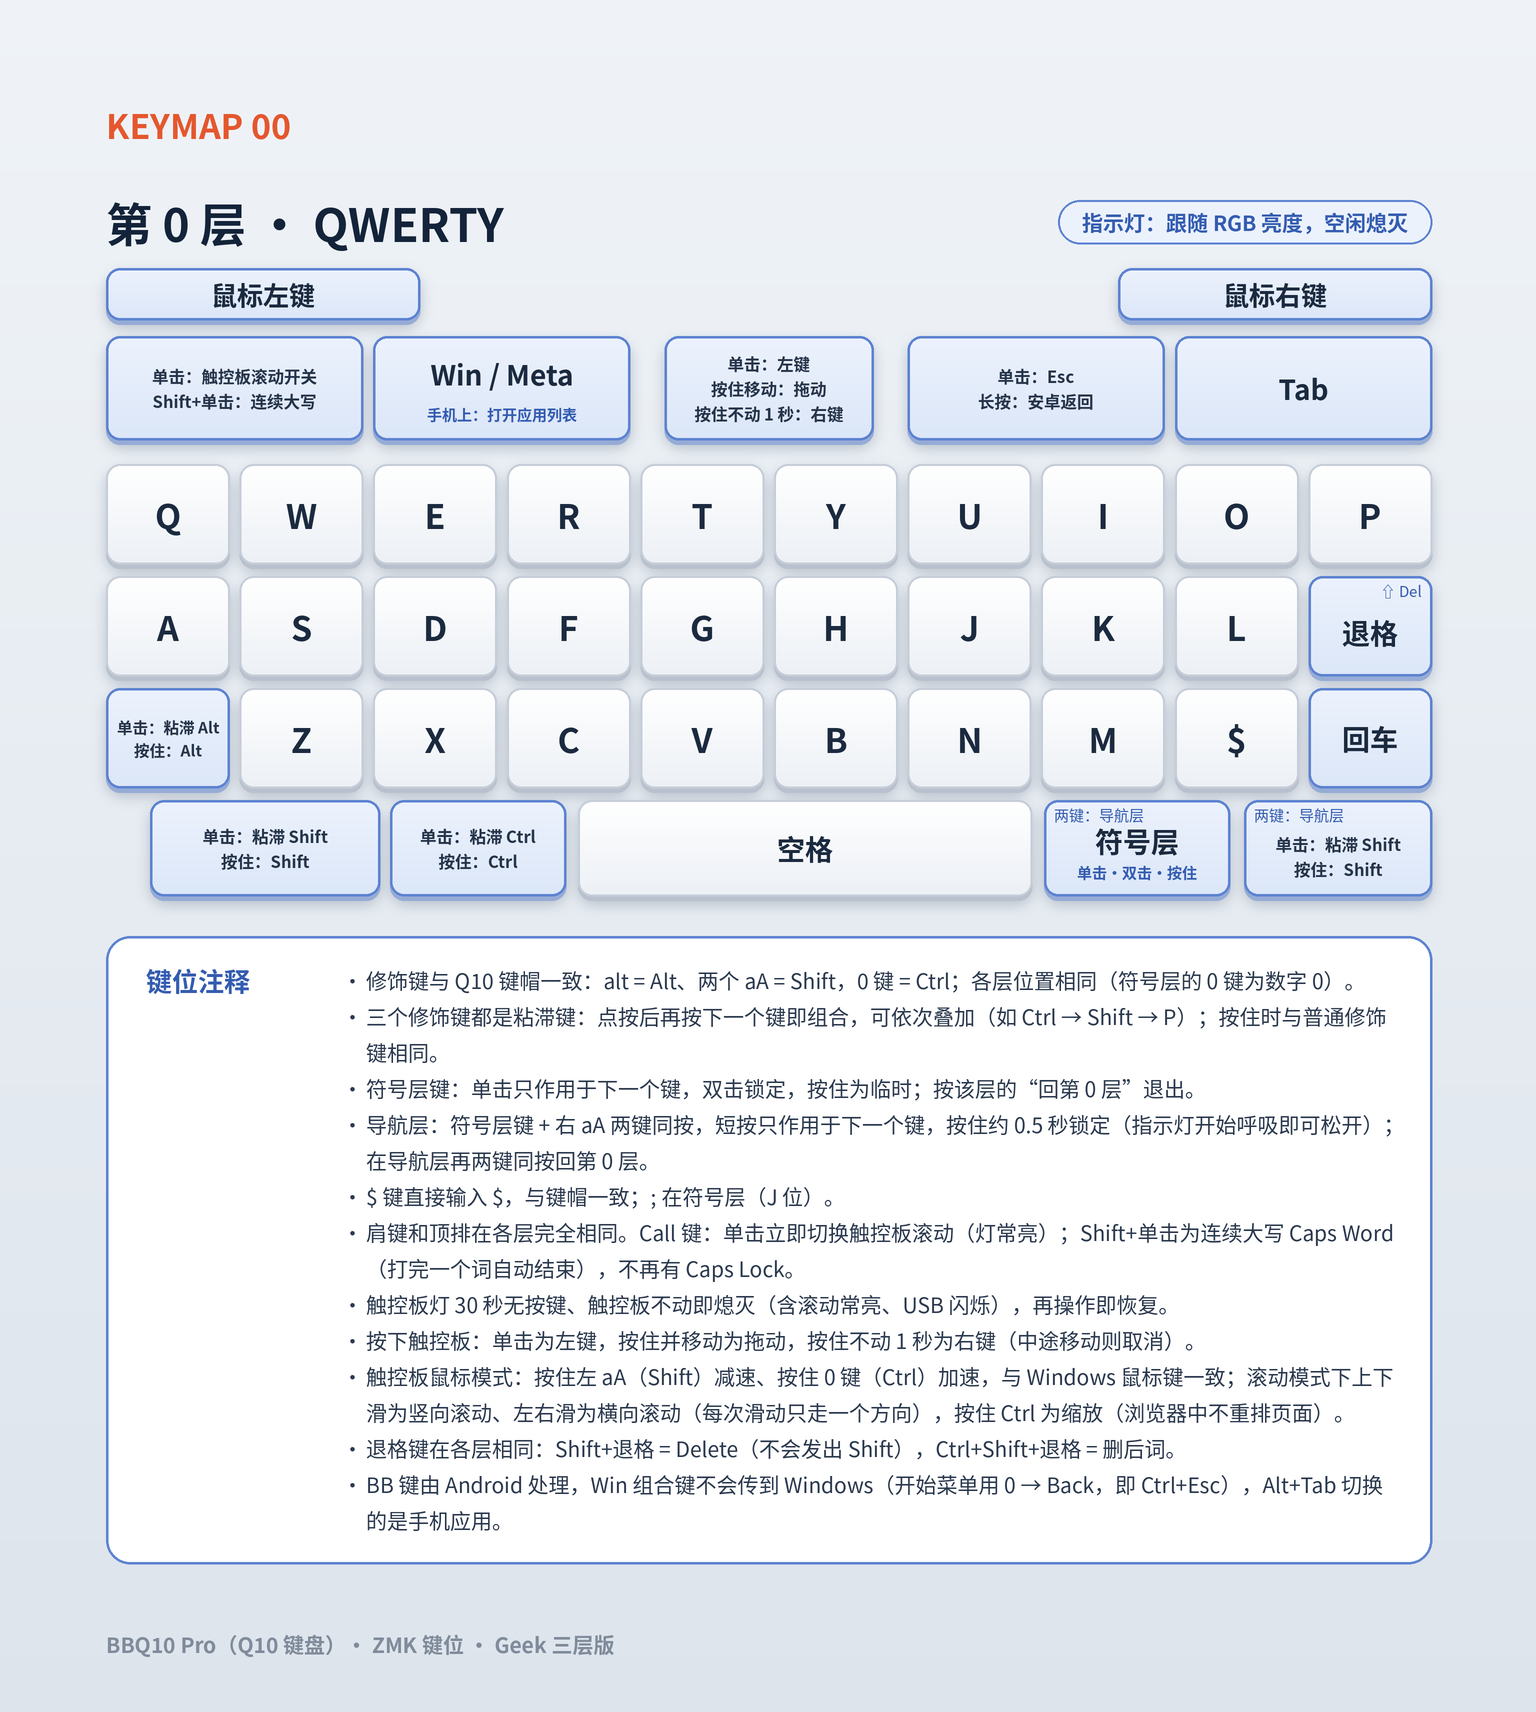
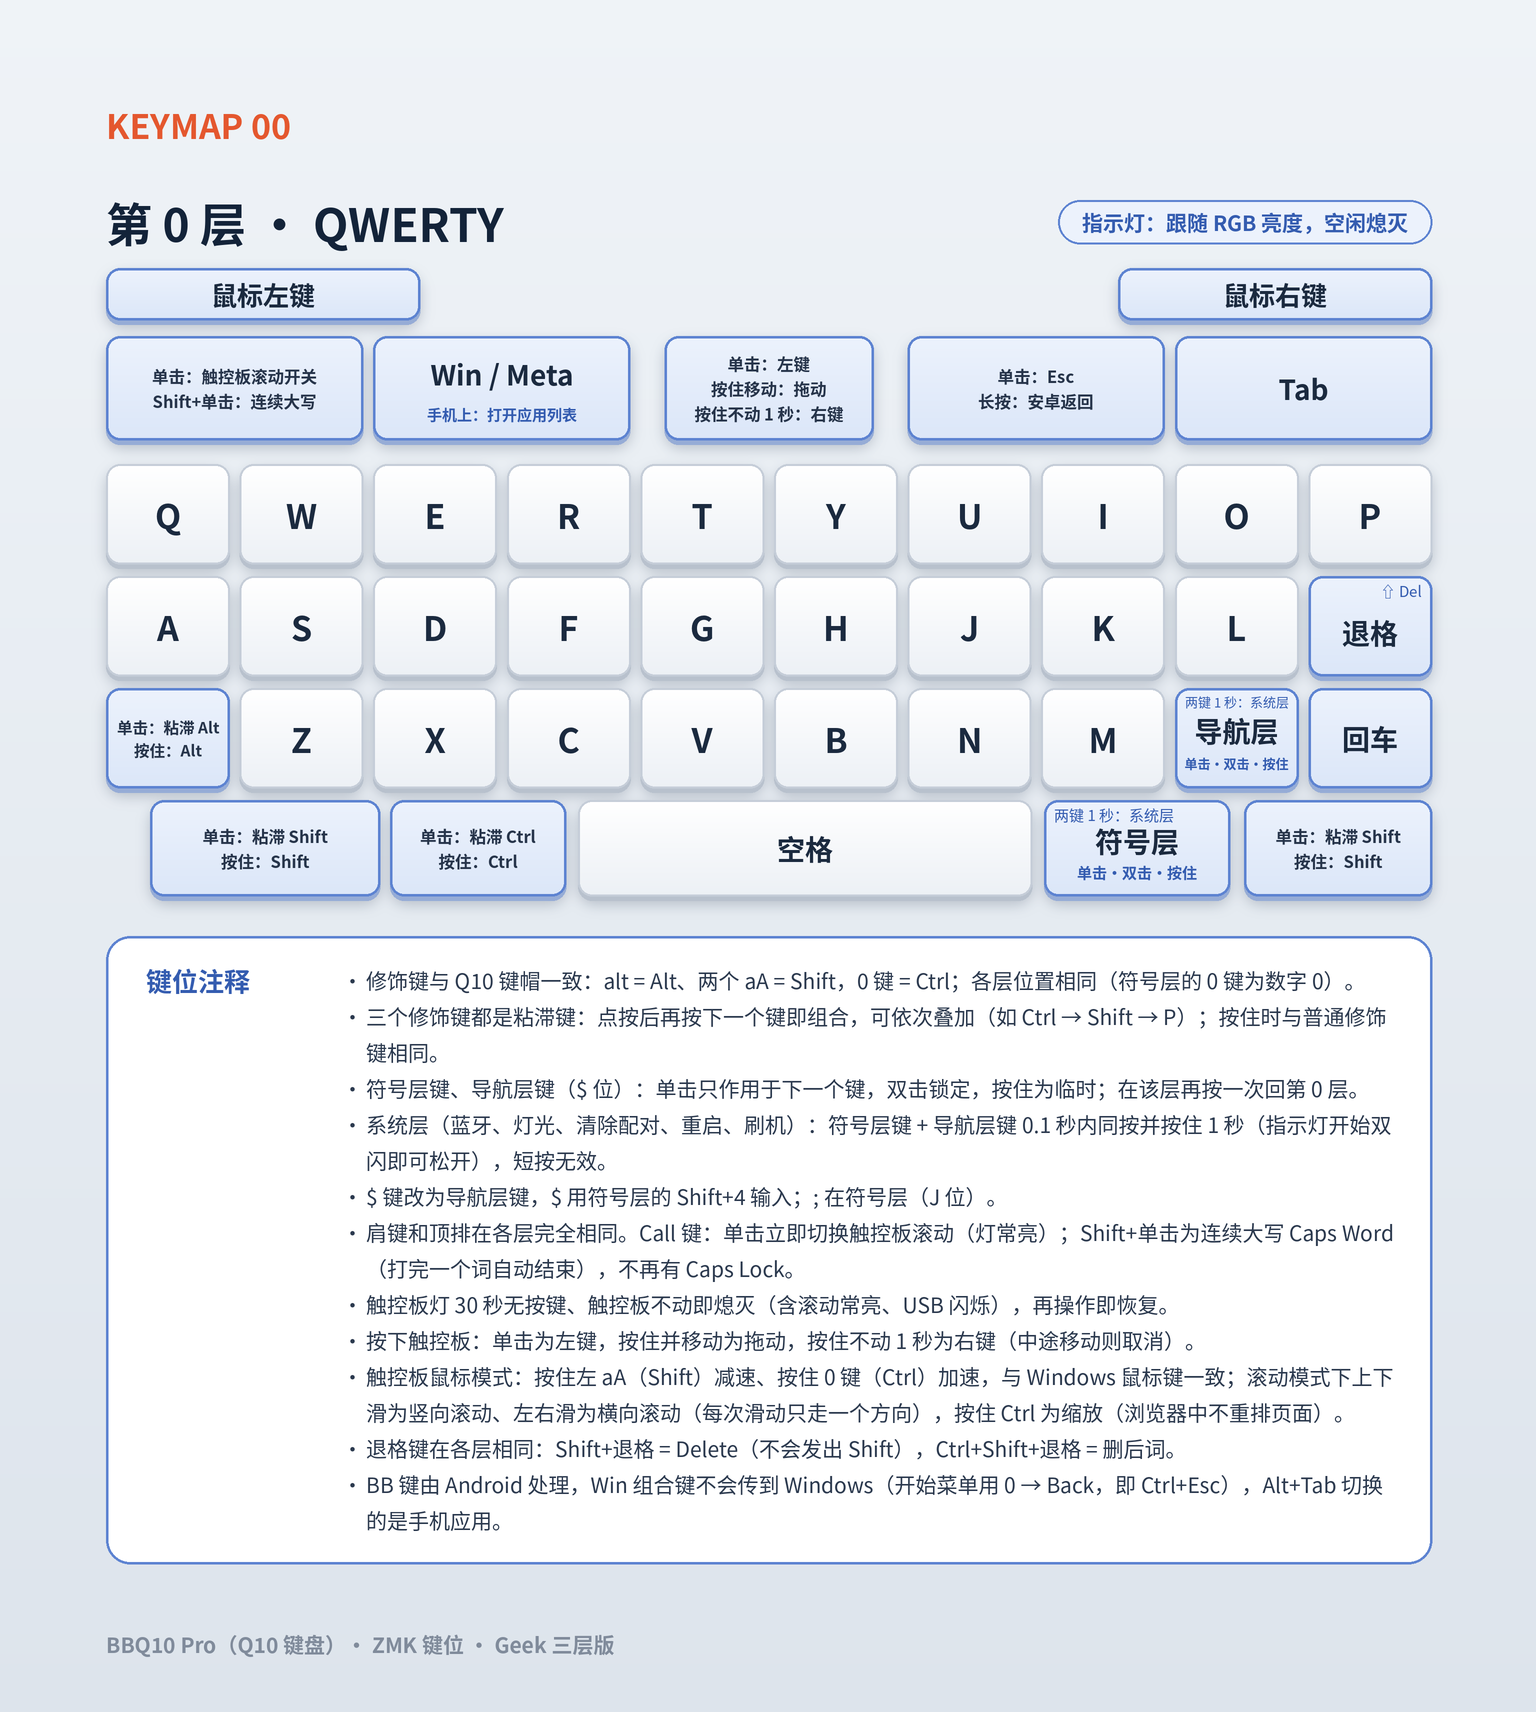
Put the F keys with navigation, a $ layer key and a system layer
The navigation layer mixed arrows, F keys behind an Fn key and rarely
used system keys, and each layer had its own way in. Sort the keys by
how often they are used and enter the layers the same way.

- Navigation layer: F1-F12 where the symbol layer has the digits (F1-F9
  on W E R / S D F / Z X C, F10 on Space, F11 / F12 on # / *), arrows
  on I J K L, Home / End on U / O, PgUp / PgDn on Y / H. T keeps
  Ctrl+Alt+Tab, G is Task Manager (Ctrl+Shift+Esc), P the menu key.
  The 0 key stays Ctrl, so arrows and F keys take modifiers as before
- The $ key is the navigation layer key and is used like the symbol
  layer key: tap for the next key only, double-tap to lock, hold for
  momentary; on the navigation layer it returns to layer 0. Type $
  with Shift+4 on the symbol layer
- System layer (3, replacing Fn): Bluetooth, trackpad power, RGB and
  backlight, clear pairing, USB/BLE, reset and bootloader, in their
  places from the old navigation layer; the risky keys still need a
  double-tap. Enter it by pressing SYM and $ within 0.1 s and holding
  both for 1 s; a shorter press does nothing. SYM returns to layer 0
- Drop the SYM + right aA combos: the right aA is a plain sticky Shift
- The key backlight double flash now marks the system layer
- Diagrams: new navigation page and a system layer page

Changed region(s): [[0.2188, 0.6192, 0.9062, 0.712], [0.75, 0.4025, 0.9062, 0.5263], [0.7188, 0.4644, 0.75, 0.4953]]

diff --git a/config/boards/arm/zitaotech_q10/custom_driver/keyboard_backlight.c b/config/boards/arm/zitaotech_q10/custom_driver/keyboard_backlight.c
@@ -138,11 +138,11 @@ static void blink_work_handler(struct k_work *work) {
     k_work_reschedule(&blink_work, K_MSEC(BLINK_INTERVAL_MS));
 }
 
-/* 层3（F 键，Fn）双闪 */
-static bool is_fn_layer(int layer) { return layer == 3; }
+/* 层3（系统层）双闪 */
+static bool is_system_layer(int layer) { return layer == 3; }
 
 static void flash_work_handler(struct k_work *work) {
-    if (!is_fn_layer(prev_layer)) {
+    if (!is_system_layer(prev_layer)) {
         set_led_brightness(0);
         return;
     }
@@ -238,7 +238,7 @@ static void polling_work_handler(struct k_work *work) {
             break;
 
         case 3:
-            /* 层3（F 键）：双闪 */
+            /* 层3（系统层）：双闪 */
             flash_step = 0;
             set_indicator_brightness(BRT_BLINK_HIGH);
             k_work_reschedule(&flash_work, K_MSEC(double_flash_steps_ms[0]));

diff --git a/README.md b/README.md
@@ -11,7 +11,8 @@ Layer diagrams for the keymap in `config/zitaotech_q10.keymap`.
 <p align="center">
 <img width="800" alt="第 0 层 · QWERTY" src="docs/keymap/keymap-0-qwerty.png" />
 <img width="800" alt="第 1 层 · 数字与符号" src="docs/keymap/keymap-1-symbols.png" />
-<img width="800" alt="第 2 层 · 导航与系统" src="docs/keymap/keymap-2-navigation.png" />
+<img width="800" alt="第 2 层 · 导航与 F 键" src="docs/keymap/keymap-2-navigation.png" />
+<img width="800" alt="第 3 层 · 系统" src="docs/keymap/keymap-3-system.png" />
 </p>
 
 ### Use this repo to generate your own ZMK keymap for the bbq10 Pro keyboard.  
@@ -64,5 +65,5 @@ The scroll speed is set by `CONFIG_A320_TRACKPAD_SCROLL_INTERVAL` in `config/zit
 The trackpad LED turns off after `CONFIG_TRACKPAD_LED_IDLE_TIMEOUT` milliseconds without a key press or trackpad movement (30000 in `config/zitaotech_q10.conf`, 0 keeps it on), also when it is on in scroll mode or flashes for USB output; the next key press or movement brings it back.
 
 The trackpad LED and the key backlight turn their brightness level (0-100) into the PWM duty with `led_duty()` in [led_duty.h](config/boards/arm/zitaotech_q10/custom_driver/led_duty.h). It is squared, so the lowest step (10) is a faint glow at about 1% while 100 stays at 100%.
-The key backlight's layer indicators (blinking on layer 1, breathing on layer 2, double flash for Fn) peak at the RGB brightness as well, but at least at 20 (about 4%) so the effects can still be told apart; their dim phases scale down with it.
+The key backlight's layer indicators (blinking on layer 1, breathing on layer 2, double flash on the system layer 3) peak at the RGB brightness as well, but at least at 20 (about 4%) so the effects can still be told apart; their dim phases scale down with it.
 In scroll mode the trackpad LED stays on at its own brightness level, the backlight level set with the backlight keys, which also sets the pointer speed. Touching the trackpad does not light it.
